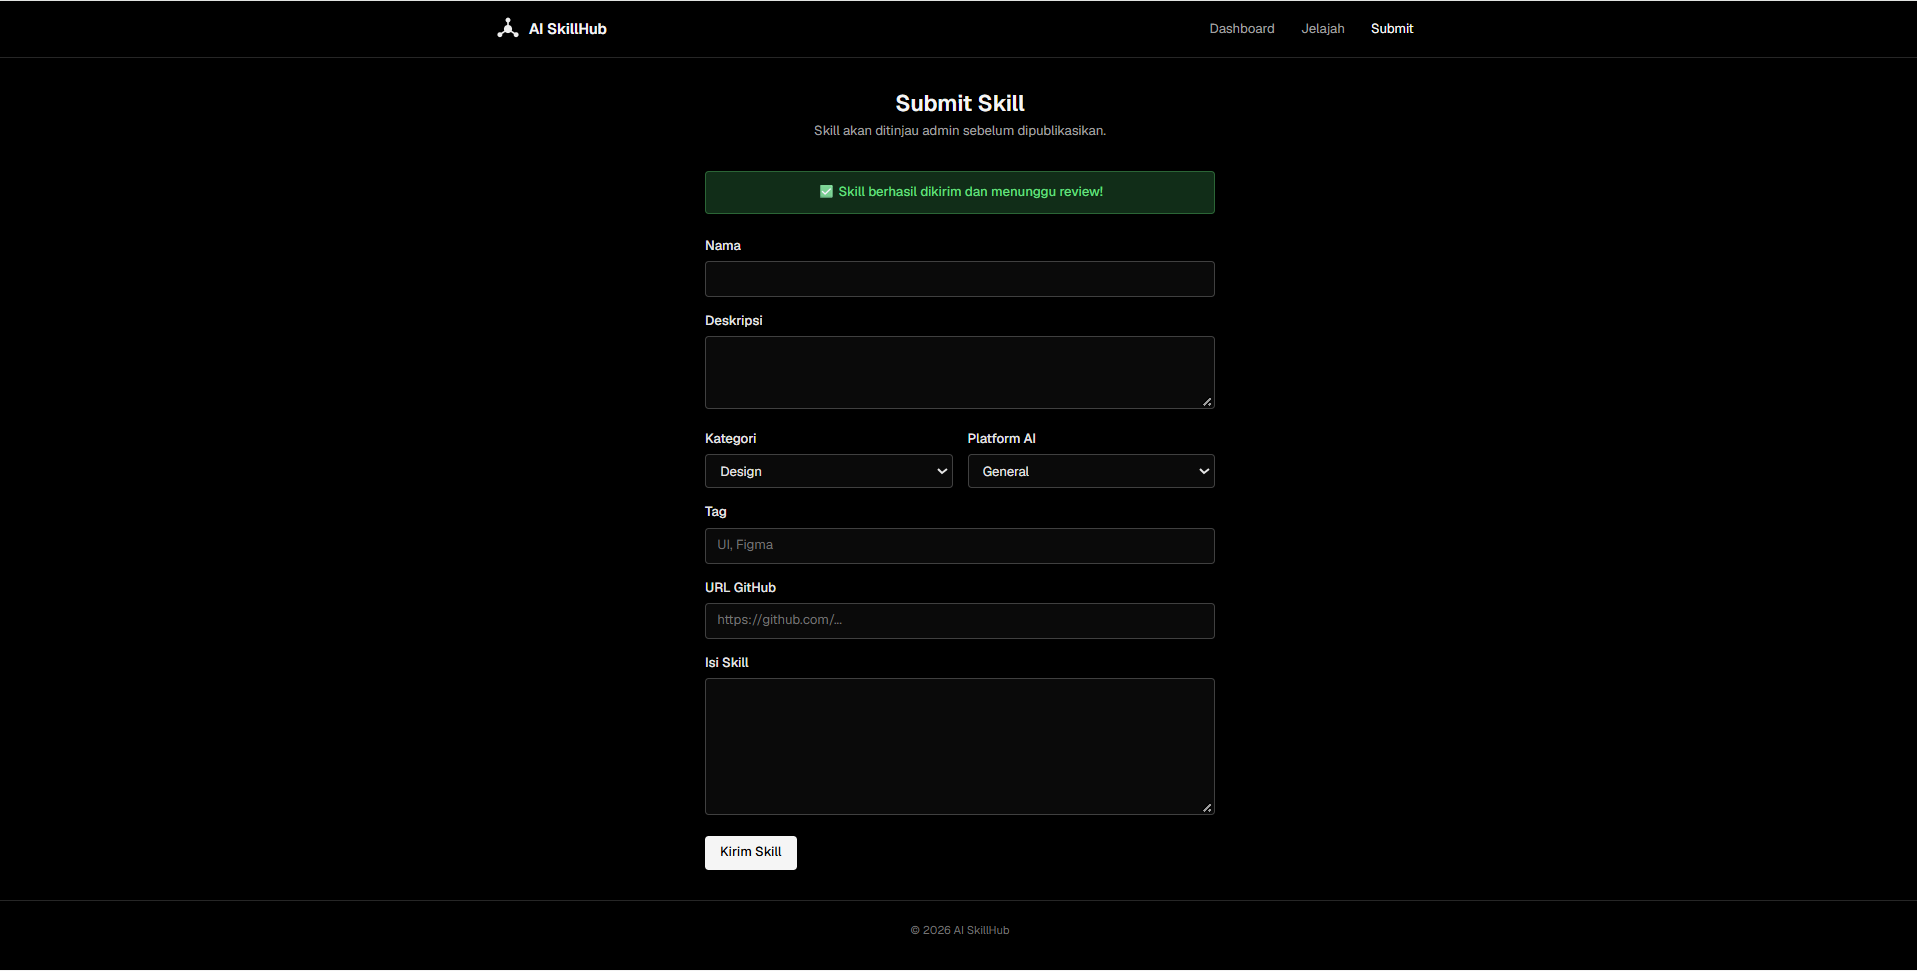
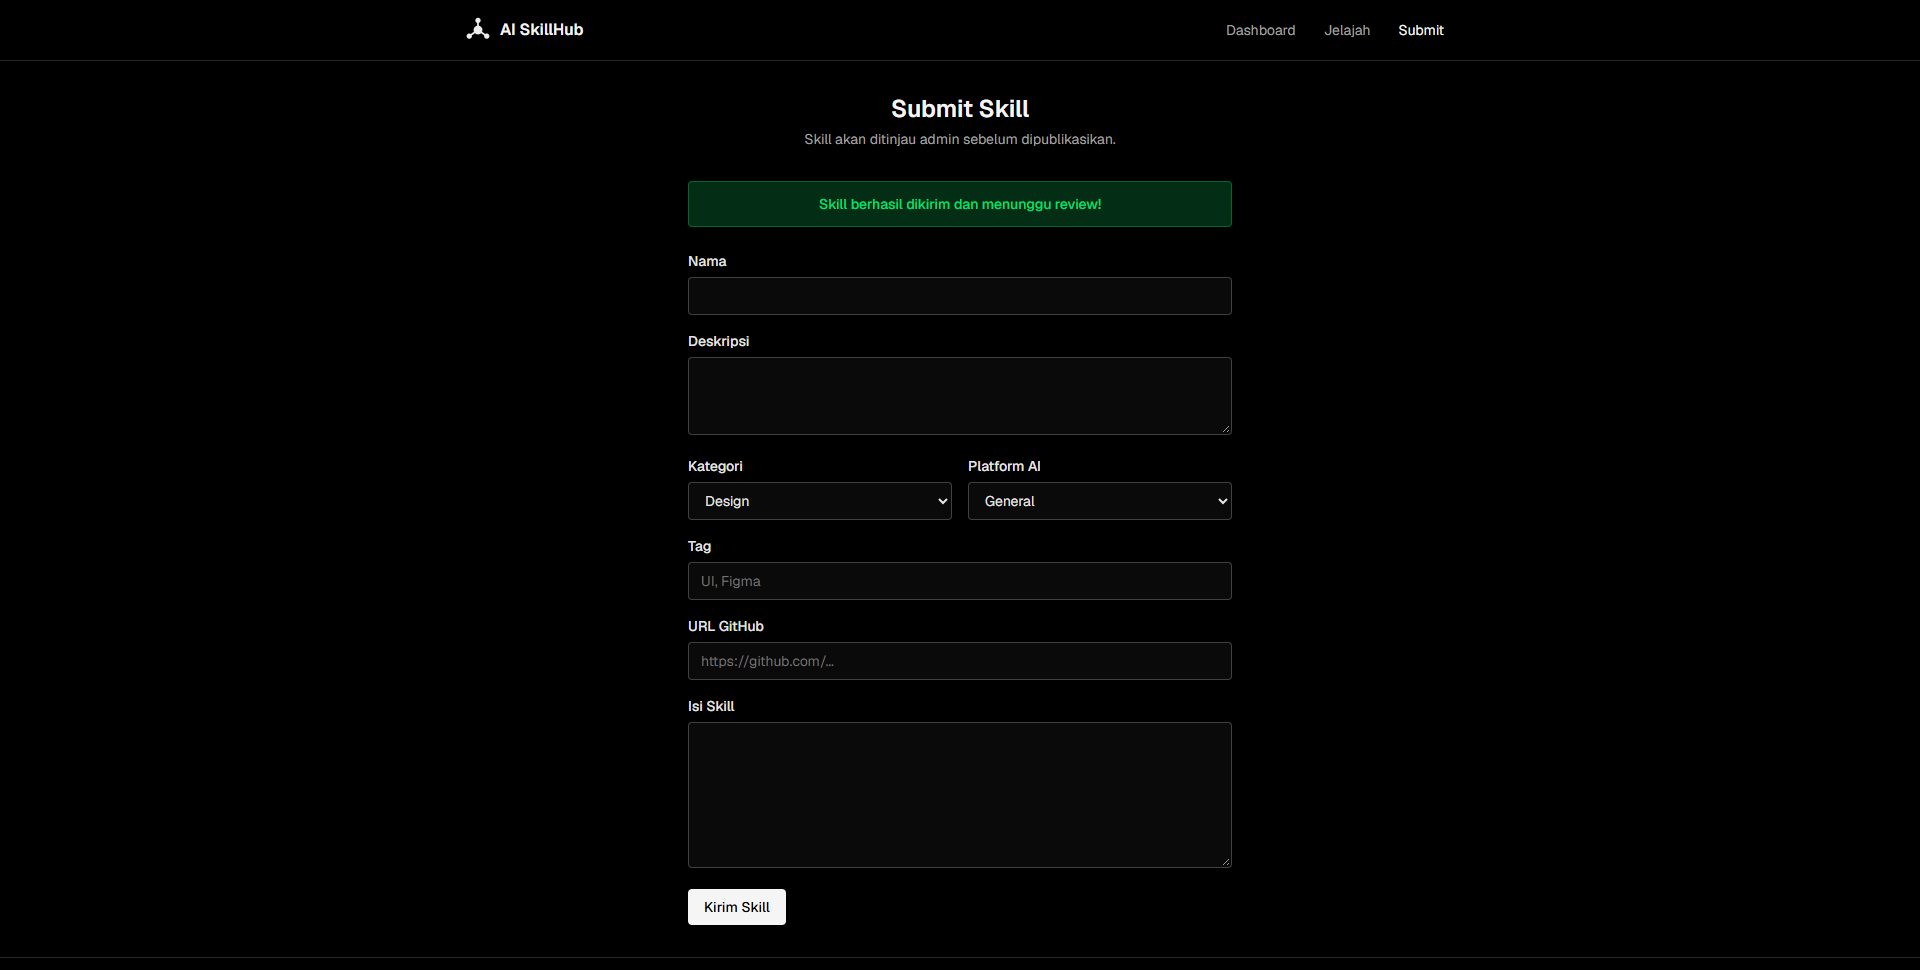
fix: perbaiki pencarian, filter kategori, dan README minggu 5

diff --git a/script.js b/script.js
@@ -12,9 +12,14 @@ const dummySkills = [
     { name: "Workflow Automator", category: "Automation", platform: "AI Agent", author: "@flow_dev", favs: 42 }
 ];
 
-// b. Function untuk memproses data (Memfilter data berdasarkan kata kunci pencarian)
-function filterSkillsData(keyword) {
-    return dummySkills.filter(skill => skill.name.toLowerCase().includes(keyword.toLowerCase()));
+// b. Function untuk memproses data (Memfilter data berdasarkan kata kunci dan kategori)
+function filterSkillsData(keyword, category) {
+    return dummySkills.filter(skill => {
+        const cocokNama = skill.name.toLowerCase().includes(keyword.toLowerCase());
+        // Kategori kosong ("Semua") berarti semua kategori lolos
+        const cocokKategori = category === '' || skill.category.toLowerCase() === category;
+        return cocokNama && cocokKategori;
+    });
 }
 
 // c. Struktur kendali (Perulangan) untuk me-render data ke HTML secara dinamis
@@ -23,7 +28,13 @@ function renderSkillsTable(data) {
     if (!tbody) return; // Hanya jalan jika elemen tabel ada (di skills.html)
     
     tbody.innerHTML = ''; // Kosongkan isi tabel bawaan HTML
-    
+
+    // Jika tidak ada data yang cocok, tampilkan pesan
+    if (data.length === 0) {
+        tbody.innerHTML = '<tr><td colspan="5" class="px-4 py-6 text-center text-neutral-400">Skill tidak ditemukan.</td></tr>';
+        return;
+    }
+
     for (let i = 0; i < data.length; i++) {
         const skill = data[i];
         const tr = document.createElement('tr');
@@ -51,10 +62,20 @@ document.addEventListener('DOMContentLoaded', () => {
 $(document).ready(function() {
     
     // a. Event Handling: Fitur pencarian live (terhubung dengan fungsi Vanilla JS)
-    $('#search-keyword').on('keyup', function() {
-        const keyword = $(this).val();
-        const filteredData = filterSkillsData(keyword);
+    function cariSkill() {
+        const keyword = $('#search-keyword').val();
+        const category = $('#filter-category').val();
+        const filteredData = filterSkillsData(keyword, category);
         renderSkillsTable(filteredData); // Render ulang tabel dengan data hasil filter
+    }
+
+    $('#search-keyword').on('keyup', cariSkill);   // Saat mengetik
+    $('#filter-category').on('change', cariSkill); // Saat memilih kategori
+
+    // Tombol "Cari Skill" / Enter: cegah reload halaman, lalu cari
+    $('#search-form').on('submit', function(e) {
+        e.preventDefault();
+        cariSkill();
     });
 
     // b. Event Handling & Validasi: Saat form disubmit (di skill-form.html)

diff --git a/skills.html b/skills.html
@@ -30,7 +30,7 @@
     <main class="mx-auto max-w-5xl px-4 py-8">
 
         <h1 class="text-2xl font-semibold text-neutral-100">Jelajah Skill</h1>
-        <p class="mt-1 text-neutral-400">Cari skill berdasarkan nama (Coba ketik "SEO" atau "Python").</p>
+        <p class="mt-1 text-neutral-400">Cari skill berdasarkan nama atau kategori (coba ketik "SEO" atau "Python").</p>
 
         <!-- Form pencarian -->
         <form id="search-form" class="mt-6 grid gap-3 md:grid-cols-[2fr_1fr_auto] md:items-end">

diff --git a/skill-form.html b/skill-form.html
@@ -36,7 +36,7 @@
 
         <!-- Elemen Notifikasi (Awalnya disembunyikan via CSS inline) -->
         <div id="notification" style="display: none;" class="mb-6 rounded border border-green-800 bg-green-950 p-3 text-center font-medium text-green-400">
-            ✅ Skill berhasil dikirim dan menunggu review!
+            Skill berhasil dikirim dan menunggu review!
         </div>
 
         <form id="skill-form-element" class="space-y-4">

diff --git a/README.md b/README.md
@@ -31,7 +31,8 @@ Proyek ini dibangun bertahap hingga pekan ke-14 menjadi aplikasi fullstack.
 ## Teknologi
 
 - HTML5 (semantic)
-- [Tailwind CSS v4](https://tailwindcss.com/) melalui CDN (tanpa JavaScript tambahan)
+- [Tailwind CSS v4](https://tailwindcss.com/) melalui CDN
+- JavaScript (Vanilla) dan [jQuery 3.7](https://jquery.com/) untuk interaktivitas (`script.js`)
 - Font [Geist](https://fonts.google.com/specimen/Geist) dari Google Fonts
 
 ## Struktur Folder
@@ -42,6 +43,7 @@ ai-skillhub/
 ├── skills.html
 ├── skill-detail.html
 ├── skill-form.html
+├── script.js
 ├── assets/
 │   └── images/
 │       └── logo.svg
@@ -49,7 +51,8 @@ ai-skillhub/
     └── screenshots/
         ├── minggu-2/
         ├── minggu-3/
-        └── minggu-4/
+        ├── minggu-4/
+        └── minggu-5/
 ```
 
 ## Cara Menjalankan
@@ -145,22 +148,22 @@ Pada Minggu 4, `style.css` digantikan oleh Tailwind CSS. Kode CSS Minggu 3 tetap
 | Detail Skill | ![](docs/screenshots/minggu-4/skill-detail-desktop.png) | ![](docs/screenshots/minggu-4/skill-detail-mobile.png) |
 | Form Submit | ![](docs/screenshots/minggu-4/skill-form-desktop.png) | ![](docs/screenshots/minggu-4/skill-form-mobile.png) |
 
-### Minggu 5: Frontend Skeleton dengan Tailwind CSS
+### Minggu 5: Interaktivitas dengan JavaScript & jQuery
 
 Pada minggu ini, aplikasi ditambahkan interaktivitas di sisi klien (browser) dengan menggabungkan Vanilla JavaScript dan jQuery dalam satu file `script.js`.
 
 | Requirement | Penerapan |
 |---|---|
 | **Vanilla JS: Data Dummy & DOM** | Data daftar skill dipindahkan dari *hardcode* HTML menjadi variabel *Array of Object* di JS. Data ini di-render secara dinamis ke tabel `<tbody>` halaman Jelajah menggunakan perulangan. |
-| **Vanilla JS: Pemrosesan Data** | Menggunakan fungsi filter pada array (manipulasi data dasar) untuk menyaring daftar skill berdasarkan nama yang dicari. |
-| **jQuery: Event Handling (Live Search)** | Kolom pencarian di halaman *Jelajah Skill* menangkap event `.on('keyup')`, sehingga isi tabel langsung terfilter secara *real-time* saat pengguna mengetik tanpa me-reload halaman. |
+| **Vanilla JS: Pemrosesan Data** | Menggunakan fungsi filter pada array (manipulasi data dasar) untuk menyaring daftar skill berdasarkan nama dan kategori. Jika tidak ada yang cocok, tabel menampilkan pesan "Skill tidak ditemukan." |
+| **jQuery: Event Handling (Live Search)** | Kolom pencarian di halaman *Jelajah Skill* menangkap event `.on('keyup')` dan dropdown kategori menangkap `.on('change')`, sehingga isi tabel langsung terfilter secara *real-time* tanpa me-reload halaman. Tombol "Cari Skill" juga dicegah me-reload halaman dengan `preventDefault()`. |
 | **jQuery: Validasi & Animasi (Efek)** | Pada halaman *Submit Skill*, event `submit` ditangkap untuk mencegah reload. Terdapat validasi input kosong (mengeluarkan alert), dan jika sukses, notifikasi hijau dimunculkan dengan efek `.fadeIn().delay().fadeOut()`. |
 
 <details>
 <summary>Dokumentasi Interaktivitas (Minggu 5)</summary>
 
-** Video Demonstrasi:**
-- [Tonton Video Demo Interaktivitas JavaScript & jQuery di sini](#https://drive.google.com/file/d/1V24g-q4fwzrOko2j370zLa8vqLjT8Dkt/view?usp=sharing)
+**Video Demonstrasi:**
+- [Tonton Video Demo Interaktivitas JavaScript & jQuery di sini](https://drive.google.com/file/d/1V24g-q4fwzrOko2j370zLa8vqLjT8Dkt/view?usp=sharing)
 
 **Screenshot Interaksi:**
 
